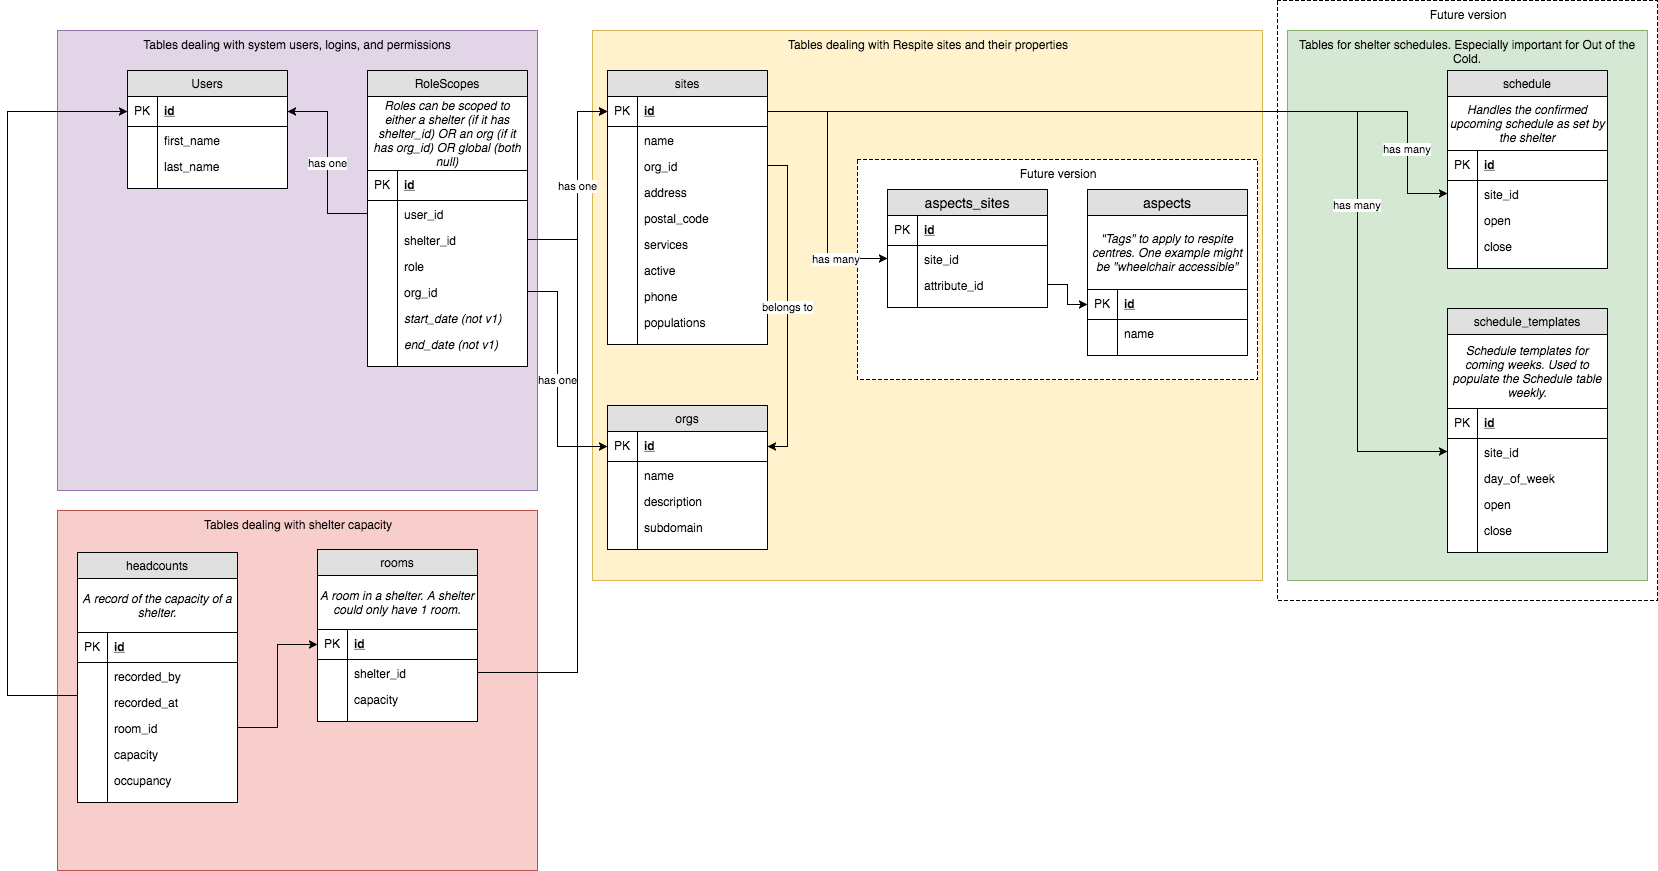
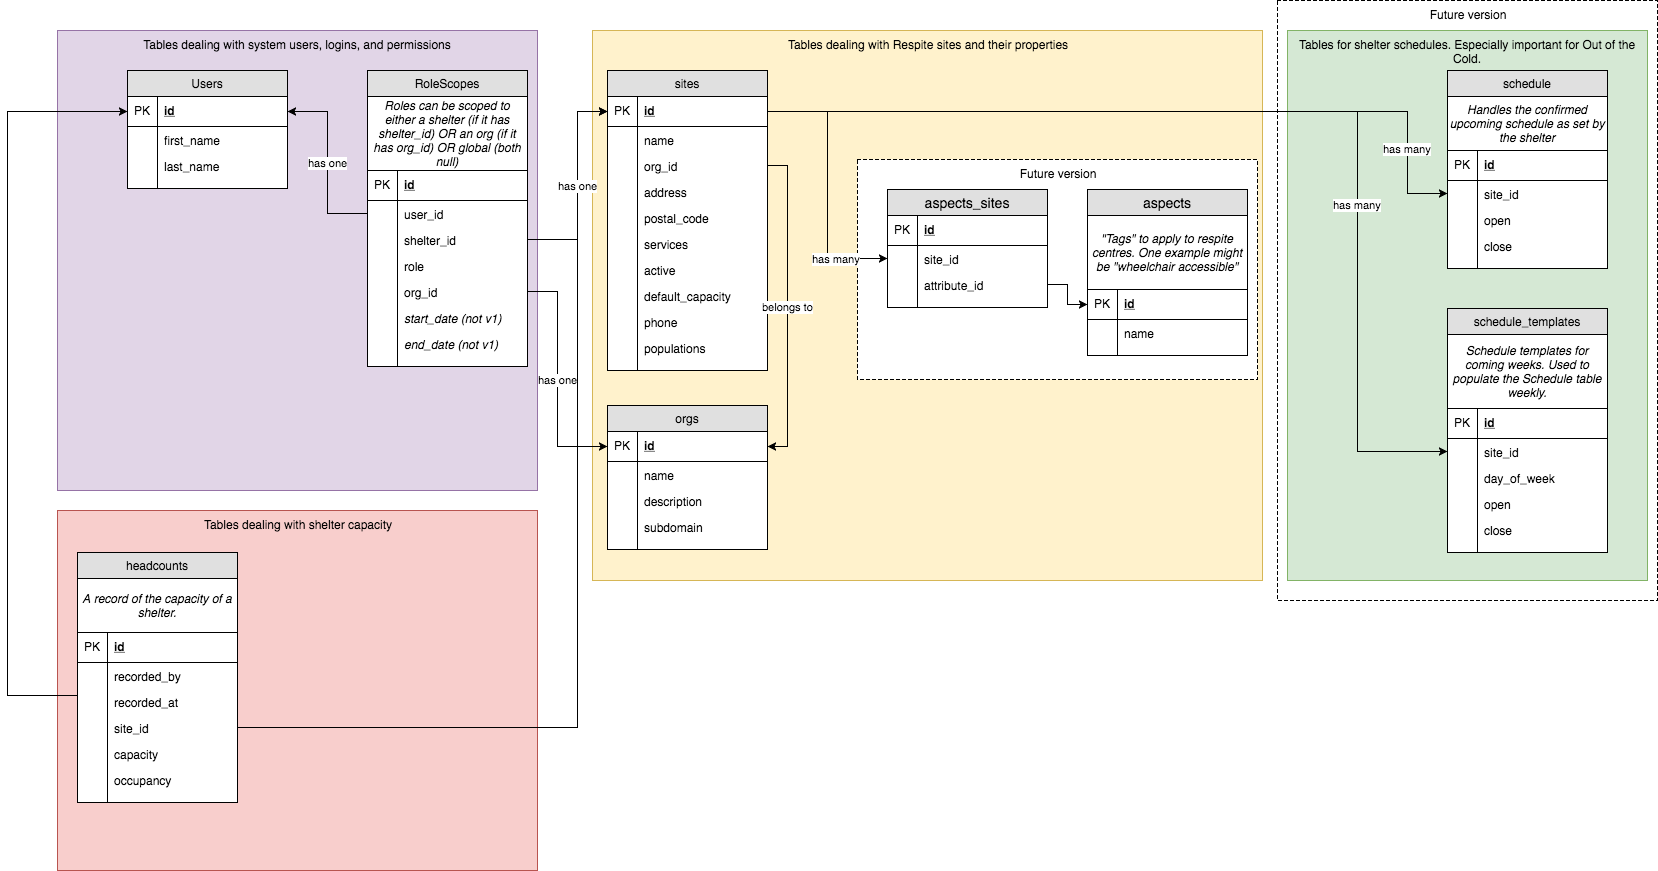
Headcounts actions (#20)
* headcount controller

* headcounts controller refactoring to remove room

Changed region(s): [[0.1846, 0.62, 0.3076, 0.837], [0.3691, 0.341, 0.4614, 0.434]]

diff --git a/test/controllers/headcounts_controller_test.rb b/test/controllers/headcounts_controller_test.rb
@@ -11,23 +11,19 @@ class HeadcountsControllerTest < ActionDispatch::IntegrationTest
     
     @org = SiteOrgSeedsTestHelper.seed_org
     @site = SiteOrgSeedsTestHelper.seed_site(@org)
-    @room = Room.create({
-      site: @site,
-      capacity: 100
-    })
     @validUser = UserSeedsTestHelper.seed_user
     @validUser = Role.grant_user_role(@validUser, :site_employee, @site)
-    @invalidUser = UserSeedsTestHelper.seed_user
-    @invalidUser = Role.grant_user_role(@invalidUser, :global_dataviewer)
+    @dataViewerUser = UserSeedsTestHelper.seed_user
+    @dataViewerUser = Role.grant_user_role(@dataViewerUser, :global_dataviewer)
     
     @headcount_web_request_params = {
-      room_id: @room.id,
+      site_id: @site.id,
       occupancy: 50,
     }
 
     @headcount_manual_create_params = {
       recorded_by: @validUser,
-      room: @room,
+      site: @site,
       occupancy: 50,
       recorded_at: Time.now,
       capacity: 60
@@ -49,14 +45,14 @@ class HeadcountsControllerTest < ActionDispatch::IntegrationTest
     assert_response 201
   end
 
-  test "shouldn't create headcount with bad room" do
+  test "shouldn't create headcount with bad site" do
     sign_in @validUser
-    bad_room_params = {
-      room_id: 999999999,
+    bad_site_params = {
+      site_id: 999999999,
       occupancy: 50
     }
 
-    post headcounts_new_path, params: { headcount: bad_room_params }, as: :json
+    post headcounts_new_path, params: { headcount: bad_site_params }, as: :json
     assert_response 400
   end
 
@@ -66,14 +62,23 @@ class HeadcountsControllerTest < ActionDispatch::IntegrationTest
   end
 
   test "shouldn't create headcount if unauthorized user" do
-    sign_in @invalidUser
+    sign_in @dataViewerUser
     post headcounts_new_path, params: { headcount: @headcount_web_request_params }, as: :json
     assert_response 403
   end
 
   test "should show headcount" do
+    sign_in @dataViewerUser
     get headcounts_show_path(@headcount), as: :json
-    assert_response 501 #not yet implemented
+    json_body = JSON.parse(response.body)
+    expected_keys = ["id","site","recorded_by_id","recorded_at","capacity","occupancy"]
+    assert(expected_keys.eql? json_body.keys)
+    assert_response 200
+  end
+
+  test "shouldn't show headcount to logged out user" do
+    get headcounts_show_path(@headcount), as: :json
+    assert_response 403
   end
 
   test "should update recently changed headcount" do
@@ -94,16 +99,9 @@ class HeadcountsControllerTest < ActionDispatch::IntegrationTest
   end
 
   test "should not update headcount if unauthorized user" do
-    sign_in @invalidUser
+    sign_in @dataViewerUser
     put headcounts_update_path(@headcount), params: { headcount: { occupancy: 20  } }, as: :json
     assert_response 403
   end
 
-  # test "should destroy headcount" do
-  #   assert_difference('Headcount.count', -1) do
-  #     delete headcount_url(@headcount), as: :json
-  #   end
-
-  #   assert_response 204
-  # end
 end

diff --git a/app/controllers/headcounts_controller.rb b/app/controllers/headcounts_controller.rb
@@ -7,34 +7,29 @@ class HeadcountsController < ApplicationController
   # GET /headcounts/1
   # GET /headcounts/1.json
   def show
-    #TODO: this needs to be locked down
-    self.not_implemented
+    return self.unauthorized_json unless user_signed_in? and current_user.can_view_global_counts?
+    render json: @headcount.for_frontend
   end
 
   # POST /headcounts
   # POST /headcounts.json
   def create
-    room = Room.find_by_id(headcount_params[:room_id])
-    return self.bad_request_json "Invalid room" if room.nil?
+    site = Site.find_by_id(headcount_params[:site_id])
+    return self.bad_request_json "Invalid site" if site.nil?
     
-    # find site that the room belongs to
-    p = Permissions.new({
-      user: current_user,
-      site: room.site
-    })
-    return self.unauthorized_json unless user_signed_in? and p.can_add_site_counts?
+    return self.unauthorized_json unless user_signed_in? and current_user.can_add_site_counts? site
 
     # augment the parameters with expected values
     default_params = {
       recorded_at: Time.now,
       recorded_by: current_user,
-      capacity: room.capacity,
+      capacity: site.default_capacity,
     }
     
     @headcount = Headcount.new(headcount_params.merge default_params)
 
     if @headcount.save
-      render json: @headcount, status: 201
+      render json: @headcount.for_frontend, status: 201
     else
       render json: @headcount.errors, status: :unprocessable_entity
     end
@@ -45,12 +40,7 @@ class HeadcountsController < ApplicationController
   def update
     edit_window = Rails.application.config.headcount_edit_window_minutes
 
-    # find site that the room belongs to
-    p = Permissions.new({
-      user: current_user,
-      site: @headcount.room.site
-    })
-    return self.unauthorized_json unless user_signed_in? and p.can_add_site_counts?
+    return self.unauthorized_json unless user_signed_in? and current_user.can_add_site_counts? @headcount.site
 
     # ensure headcount isn't too old
     if @headcount.recorded_at < Time.now - edit_window.minutes
@@ -58,7 +48,7 @@ class HeadcountsController < ApplicationController
     end
 
     if @headcount.update(headcount_params)
-      render json: @headcount, status: 200
+      render json: @headcount.for_frontend, status: 200
     else
       render json: @headcount.errors, status: :unprocessable_entity
     end
@@ -73,7 +63,7 @@ class HeadcountsController < ApplicationController
     # Never trust parameters from the scary internet, only allow the white list through.
     def headcount_params
       params.require(:headcount).permit(
-        :room_id,
+        :site_id,
         :occupancy
       )
     end

diff --git a/db/schema.rb b/db/schema.rb
@@ -10,7 +10,7 @@
 #
 # It's strongly recommended that you check this file into your version control system.
 
-ActiveRecord::Schema.define(version: 2018_08_13_001604) do
+ActiveRecord::Schema.define(version: 2018_08_27_125526) do
 
   create_table "aspects", force: :cascade do |t|
     t.string "name"
@@ -26,15 +26,15 @@ ActiveRecord::Schema.define(version: 2018_08_13_001604) do
   end
 
   create_table "headcounts", force: :cascade do |t|
-    t.integer "room_id"
     t.integer "recorded_by_id"
     t.datetime "recorded_at"
     t.integer "capacity"
     t.integer "occupancy"
     t.datetime "created_at", null: false
     t.datetime "updated_at", null: false
+    t.integer "site_id"
     t.index ["recorded_by_id"], name: "index_headcounts_on_recorded_by_id"
-    t.index ["room_id"], name: "index_headcounts_on_room_id"
+    t.index ["site_id"], name: "index_headcounts_on_site_id"
   end
 
   create_table "orgs", force: :cascade do |t|
@@ -55,14 +55,6 @@ ActiveRecord::Schema.define(version: 2018_08_13_001604) do
     t.index ["org_id"], name: "index_roles_on_org_id"
     t.index ["site_id"], name: "index_roles_on_site_id"
     t.index ["user_id"], name: "index_roles_on_user_id"
-  end
-
-  create_table "rooms", force: :cascade do |t|
-    t.integer "site_id"
-    t.integer "capacity"
-    t.datetime "created_at", null: false
-    t.datetime "updated_at", null: false
-    t.index ["site_id"], name: "index_rooms_on_site_id"
   end
 
   create_table "schedule_templates", force: :cascade do |t|
@@ -95,6 +87,7 @@ ActiveRecord::Schema.define(version: 2018_08_13_001604) do
     t.boolean "active", default: true
     t.string "populations"
     t.string "phone"
+    t.integer "default_capacity"
     t.index ["org_id"], name: "index_sites_on_org_id"
   end
 

diff --git a/app/models/site.rb b/app/models/site.rb
@@ -3,7 +3,6 @@ class Site < ApplicationRecord
   has_and_belongs_to_many :aspects
   has_many :schedules
   has_many :schedule_templates
-  has_many :rooms
   has_many :roles
 
   serialize :populations, Array
@@ -13,6 +12,7 @@ class Site < ApplicationRecord
   :address,
   :postal_code,
   :phone,
+  :default_capacity,
   presence: true
 
   def self.convert_attrs_from_frontend_hash ( frontend_hash )
@@ -68,6 +68,7 @@ class Site < ApplicationRecord
         address: self.address,
         postal_code: self.postal_code,
         phone: self.phone,
+        default_capacity: self.default_capacity,
       },
       services: {
         services: self.services,

diff --git a/db/migrate/20180827125526_drop_rooms.rb b/db/migrate/20180827125526_drop_rooms.rb
@@ -1,0 +1,33 @@
+class DropRooms < ActiveRecord::Migration[5.2]
+  def up
+    drop_table :rooms
+    
+    change_table :sites do |t|
+      t.integer :default_capacity
+    end
+
+    change_table :headcounts do |t|
+      t.belongs_to :site, index: true
+      t.remove :room_id
+    end
+  end
+
+  def down
+    create_table :rooms do |t|
+      t.belongs_to :site, index: true
+      t.integer :capacity
+
+      t.timestamps
+    end
+
+    change_table :sites do |t|
+      t.remove :default_capacity
+    end
+
+    # todo how to drop join?
+    change_table :headcounts do |t|
+      t.remove :site_id
+      t.belongs_to :room
+    end
+  end
+end

diff --git a/app/models/headcount.rb b/app/models/headcount.rb
@@ -1,13 +1,24 @@
 class Headcount < ApplicationRecord
-  belongs_to :room
+  belongs_to :site
   belongs_to :recorded_by, class_name: "User"
   
   validates :capacity, numericality: { greater_than: 0 }
   validates :occupancy,
-    :room,
+    :site,
     :recorded_by,
     :recorded_at,
     :capacity,
     presence: true
+
+  def for_frontend
+    {
+      id:self.id,
+      site: self.site.id,
+      recorded_by_id: self.recorded_by_id,
+      recorded_at: self.recorded_at,
+      capacity: self.capacity,
+      occupancy: self.occupancy,
+    }
+  end
 
 end

diff --git a/test/controllers/sites_controller_test.rb b/test/controllers/sites_controller_test.rb
@@ -19,6 +19,7 @@ class SitesControllerTest < ActionDispatch::IntegrationTest
         address: "1234 fake street",
         postal_code: "X0X0X0",
         phone: "4161234567",
+        default_capacity: 100,
       },
       services: {
         services: "Some Services",

diff --git a/test/models/site_test.rb b/test/models/site_test.rb
@@ -26,6 +26,7 @@ class SiteTest < ActiveSupport::TestCase
         address: "1234 fake street",
         postal_code: "X0X0X0",
         phone: "4161234567",
+        default_capacity: 100,
       },
       services: {
         services: "Some Services",

diff --git a/test/site_org_seeds_test_helper.rb b/test/site_org_seeds_test_helper.rb
@@ -40,7 +40,8 @@ class SiteOrgSeedsTestHelper
       address: Faker::Address.street_address,
       postal_code: 'M4C 1L7',
       services: '',
-      phone: '4165271111'
+      phone: '4165271111',
+      default_capacity: rand(200)
     }
   end
 

diff --git a/app/controllers/sites_controller.rb b/app/controllers/sites_controller.rb
@@ -87,7 +87,8 @@ class SitesController < ApplicationController
         :address,
         :postal_code,
         :phone,
-        :org_id
+        :org_id,
+        :default_capacity,
       )
 
       services = params.require(:services).permit(
